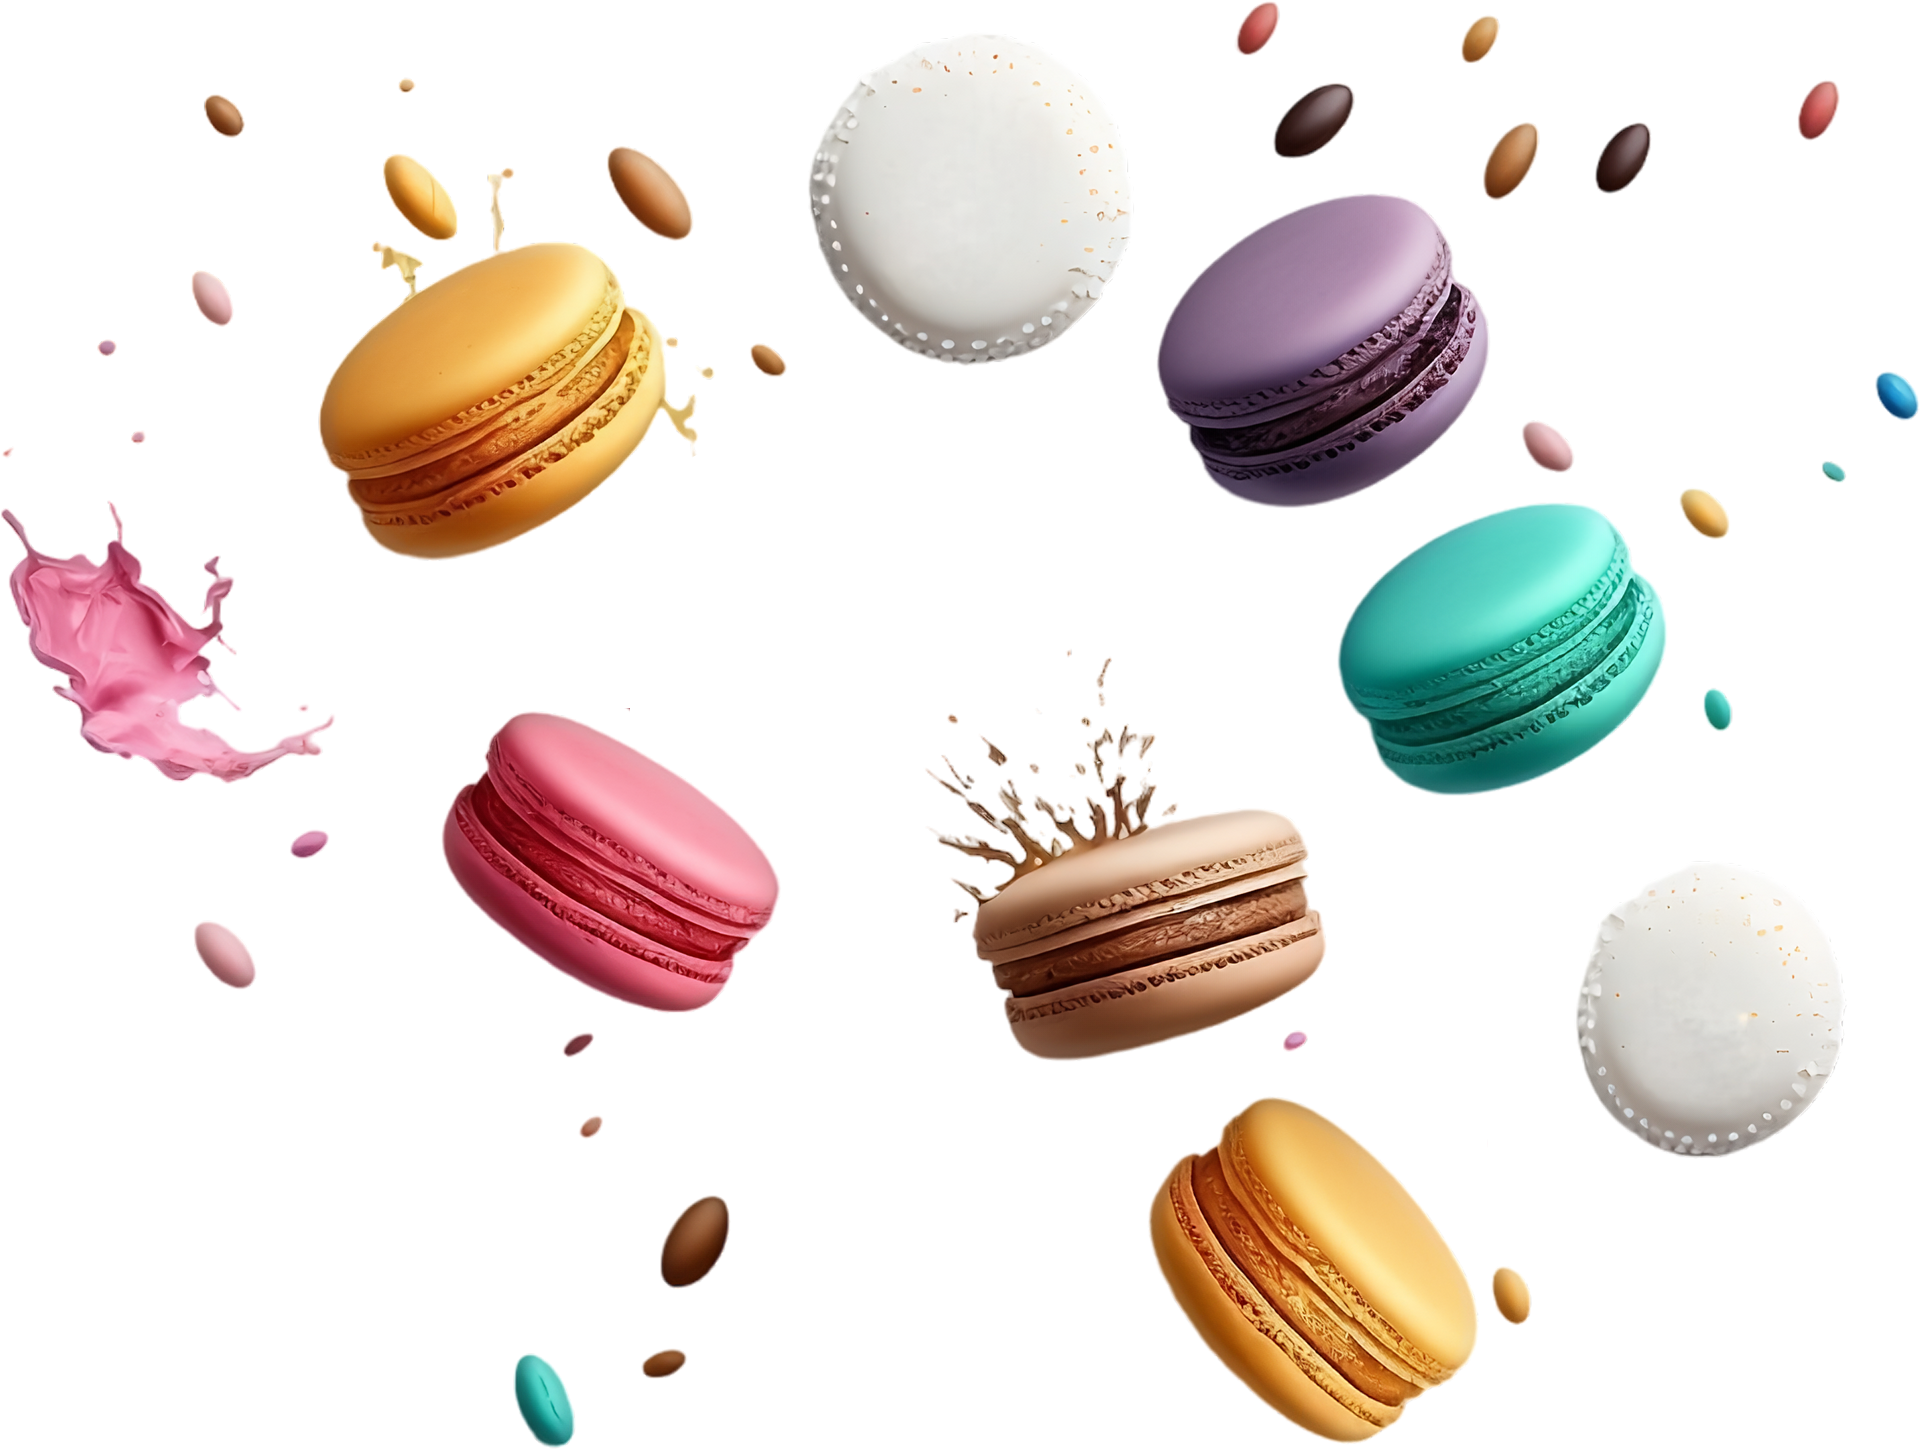
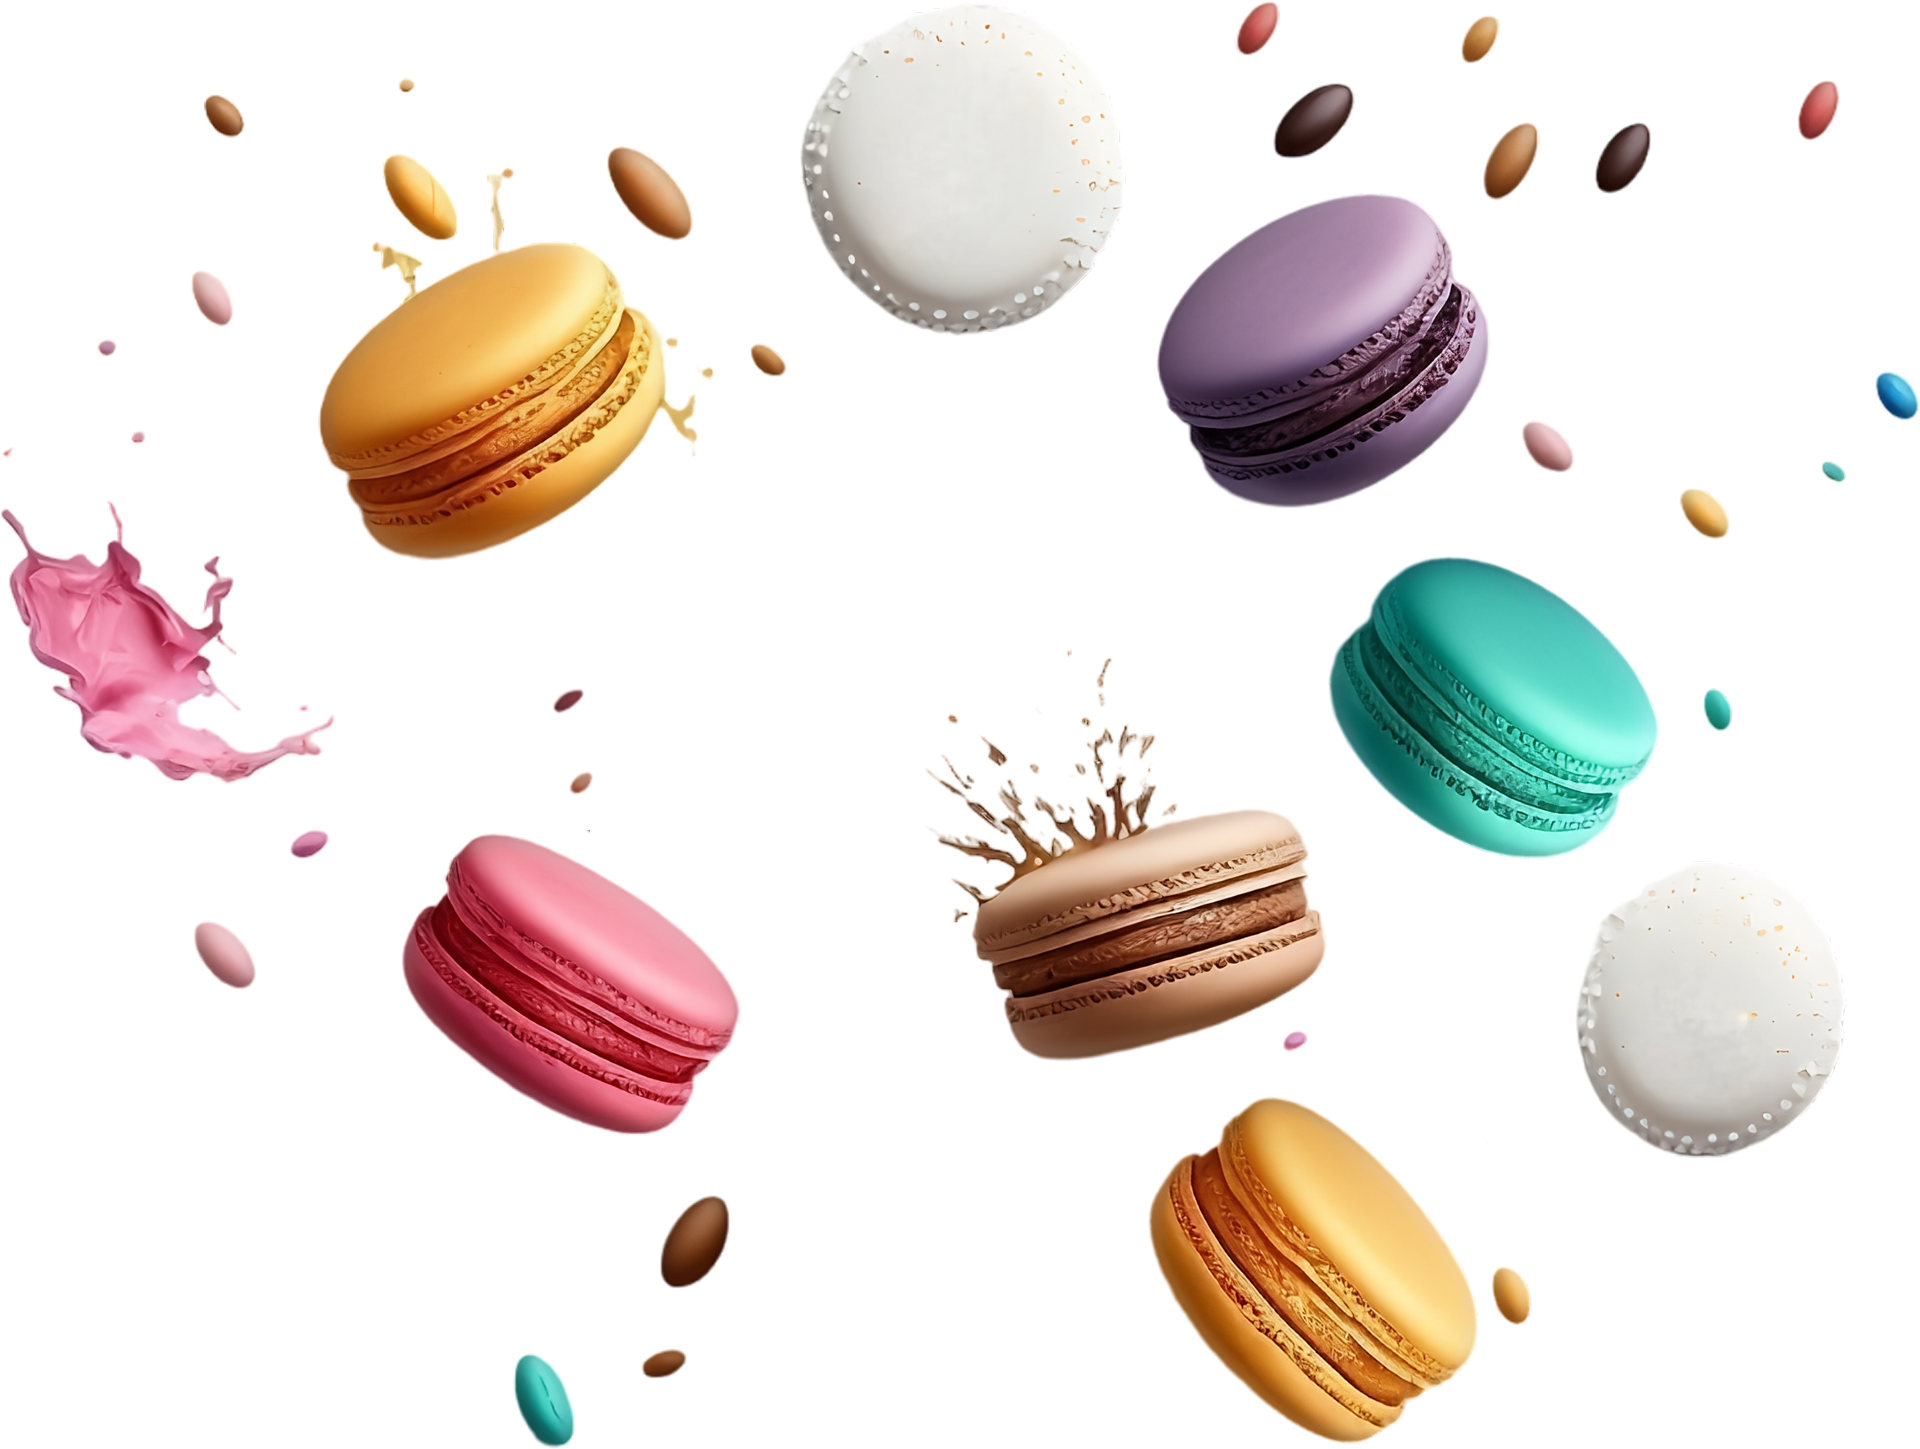
Re-order
- Switched contact and mobility sections for easier call to action
- tweaked hero img

diff --git a/index.html b/index.html
@@ -249,29 +249,27 @@
       </div>
     </div>
 
-    <div id="events" class="section">
-      <div>
-        <div>
-          <h5>bar à Gâteaux Ambulant</h5>
-          <h1>Les Légendes Dorées, c'est avant tout la mobilité:</h1>
+    <div id="contact" class="section">
+      <div class="containerContact">
+        <h1>Lorem ipsum dolor sit amet!</h1>
+        <div class="TextContainerContact">
           <p>
-            Les patisseries se dévorent aussi avec les yeux, retrouvez-moi sur le marché d'Indre
-            <br />
-            <span>tous les dimanches matin à partir de 8h.</span>
+            Lorem ipsum dolor sit amet consectetur, adipisicing elit. Ut dolorem, harum
+            exercitationem ratione maxime enim rem nisi placeat fugit error voluptatum fuga
+            laboriosam ex illo officia voluptatibus aliquam autem, delectus, commodi nesciunt omnis
+            voluptate quo odio! Nisi, quae odio. Provident odio eveniet in sint animi adipisci autem
+            rem, incidunt eum!
           </p>
-          <p>Venez goûter mes créations originales.</p>
+          <p>
+            Lorem ipsum dolor sit amet consectetur, adipisicing elit. Ut dolorem, harum
+            exercitationem ratione maxime enim rem nisi placeat fugit error voluptatum fuga
+            laboriosam ex illo officia voluptatibus aliquam autem, delectus, commodi nesciunt omnis
+            voluptate quo odio! Nisi, quae odio. Provident odio eveniet in sint animi adipisci autem
+            rem, incidunt eum!
+          </p>
         </div>
-        <div id="nextEvent">
-          <iframe
-            src="https://www.google.com/maps/embed?pb=!1m18!1m12!1m3!1d9118.482347280153!2d-1.6772000282866457!3d47.19816471404665!2m3!1f0!2f0!3f0!3m2!1i1024!2i768!4f13.1!3m3!1m2!1s0x4805949cb0af5e85%3A0x6a6761b11a7872b0!2sMarket%20Basse-Indre!5e0!3m2!1sen!2sdk!4v1673455947512!5m2!1sen!2sdk"
-            style="border: 0"
-            allowfullscreen=""
-            loading="lazy"
-            referrerpolicy="no-referrer-when-downgrade"
-          ></iframe>
-        </div>
+        <a href="#">Entrer en contact</a>
       </div>
-      <!-- <img id="truck" src="./img/barAGateauxVoiture.png" alt="" /> -->
     </div>
 
     <div id="courses" class="section">
@@ -326,26 +324,27 @@
       </div>
     </div>
 
-    <div id="contact" class="section">
-      <div class="containerContact">
-        <h1>Lorem ipsum dolor sit amet!</h1>
-        <div class="TextContainerContact">
+    <div id="events" class="section">
+      <div>
+        <div>
+          <h5>bar à Gâteaux Ambulant</h5>
+          <h1>Les Légendes Dorées, c'est avant tout la mobilité:</h1>
           <p>
-            Lorem ipsum dolor sit amet consectetur, adipisicing elit. Ut dolorem, harum
-            exercitationem ratione maxime enim rem nisi placeat fugit error voluptatum fuga
-            laboriosam ex illo officia voluptatibus aliquam autem, delectus, commodi nesciunt omnis
-            voluptate quo odio! Nisi, quae odio. Provident odio eveniet in sint animi adipisci autem
-            rem, incidunt eum!
+            Les patisseries se dévorent aussi avec les yeux, retrouvez-moi sur le marché d'Indre
+            <br />
+            <span>tous les dimanches matin à partir de 8h.</span>
           </p>
-          <p>
-            Lorem ipsum dolor sit amet consectetur, adipisicing elit. Ut dolorem, harum
-            exercitationem ratione maxime enim rem nisi placeat fugit error voluptatum fuga
-            laboriosam ex illo officia voluptatibus aliquam autem, delectus, commodi nesciunt omnis
-            voluptate quo odio! Nisi, quae odio. Provident odio eveniet in sint animi adipisci autem
-            rem, incidunt eum!
-          </p>
+          <p>Venez goûter mes créations originales.</p>
         </div>
-        <a href="#">Entrer en contact</a>
+        <div id="nextEvent">
+          <iframe
+            src="https://www.google.com/maps/embed?pb=!1m18!1m12!1m3!1d9118.482347280153!2d-1.6772000282866457!3d47.19816471404665!2m3!1f0!2f0!3f0!3m2!1i1024!2i768!4f13.1!3m3!1m2!1s0x4805949cb0af5e85%3A0x6a6761b11a7872b0!2sMarket%20Basse-Indre!5e0!3m2!1sen!2sdk!4v1673455947512!5m2!1sen!2sdk"
+            style="border: 0"
+            allowfullscreen=""
+            loading="lazy"
+            referrerpolicy="no-referrer-when-downgrade"
+          ></iframe>
+        </div>
       </div>
     </div>
 

diff --git a/style.css b/style.css
@@ -60,7 +60,7 @@ span {
 
 #hero img {
   position: absolute;
-  top: 0;
+  top: 10%;
   left: 50%;
   transform: translate(-50%);
   height: 105%;
@@ -70,7 +70,7 @@ span {
   position: absolute;
   top: 50%;
   left: 50%;
-  transform: translate(-50%, -85%);
+  transform: translate(-50%, -50%);
   height: 27.5%;
   filter: drop-shadow(1px 1px 3px rgb(0 0 0 / 0.9));
 }
@@ -149,7 +149,7 @@ span {
 /* Body - TopSection */
 #topSection {
   background: linear-gradient(180deg, var(--background) 0%, var(--background2) 100%);
-  padding-top: 10rem;
+  padding-top: 12rem;
   padding-bottom: 0;
 }
 
